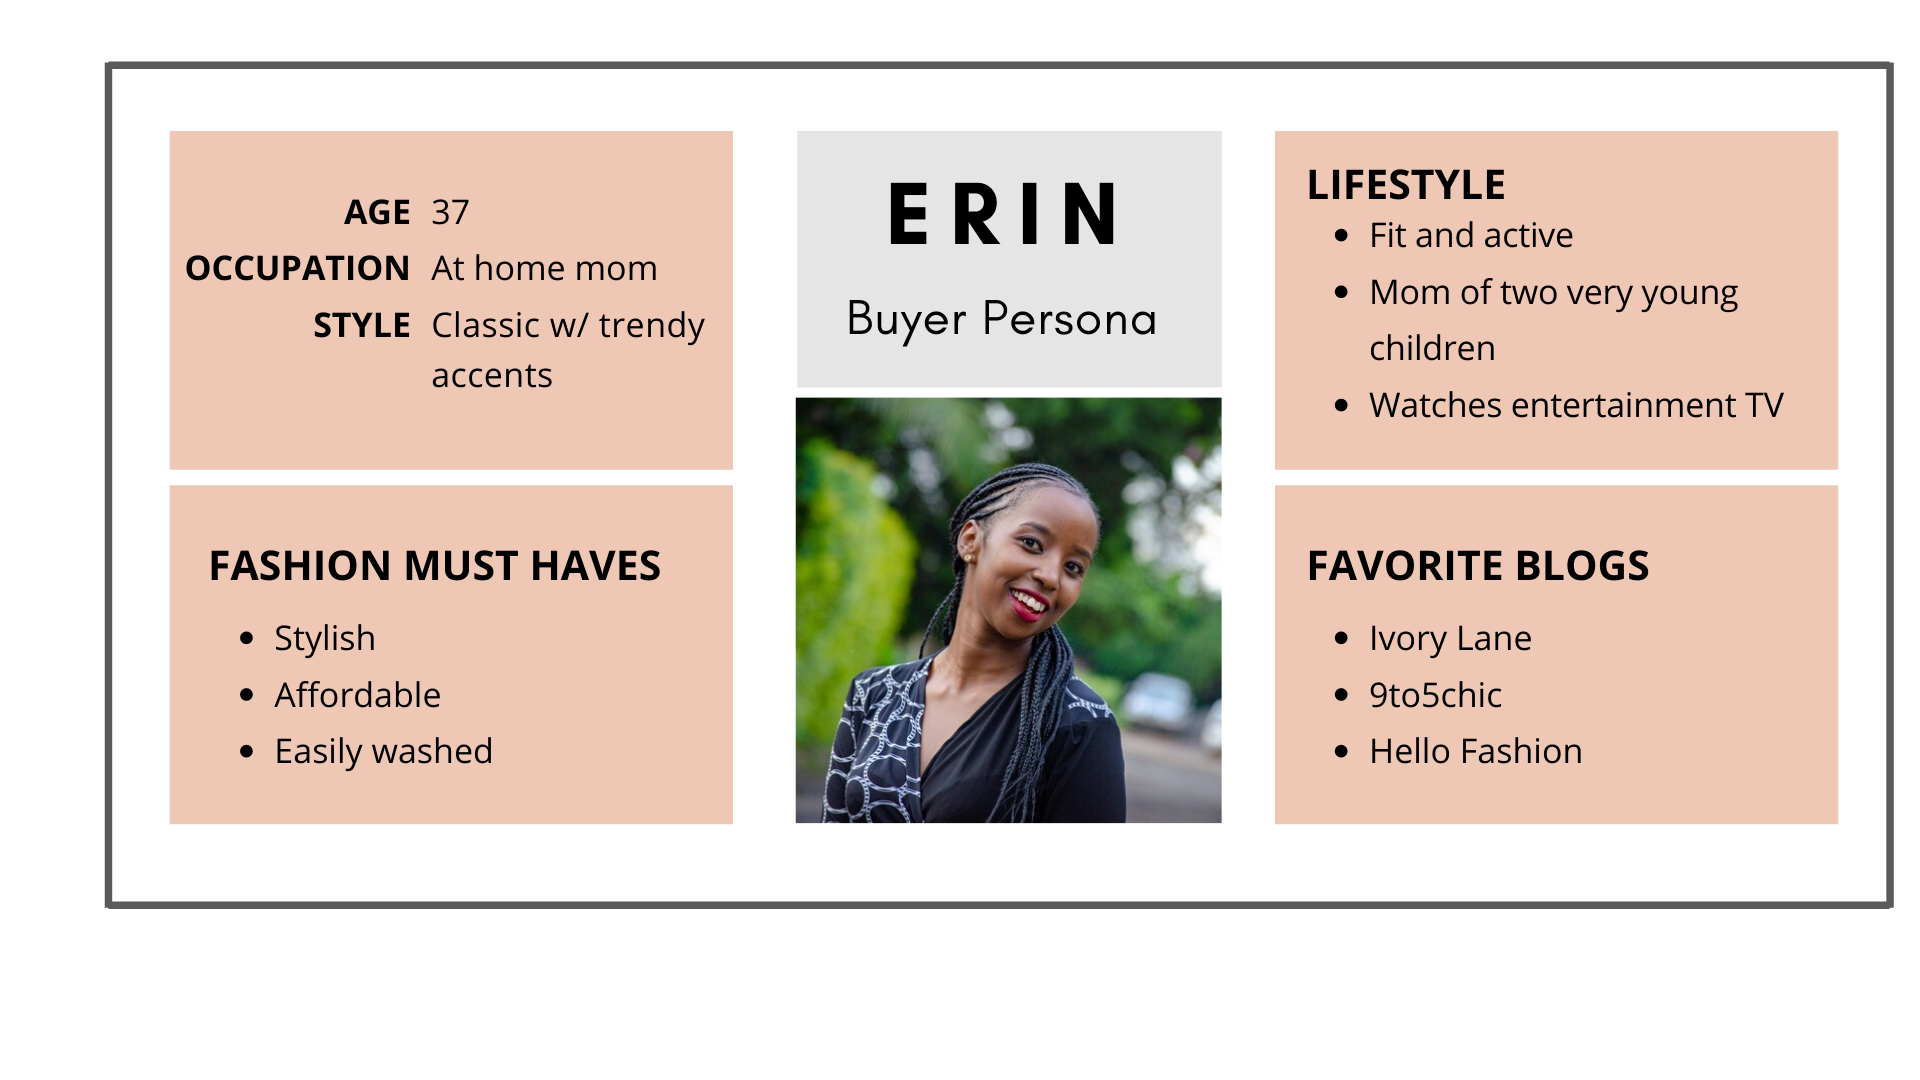
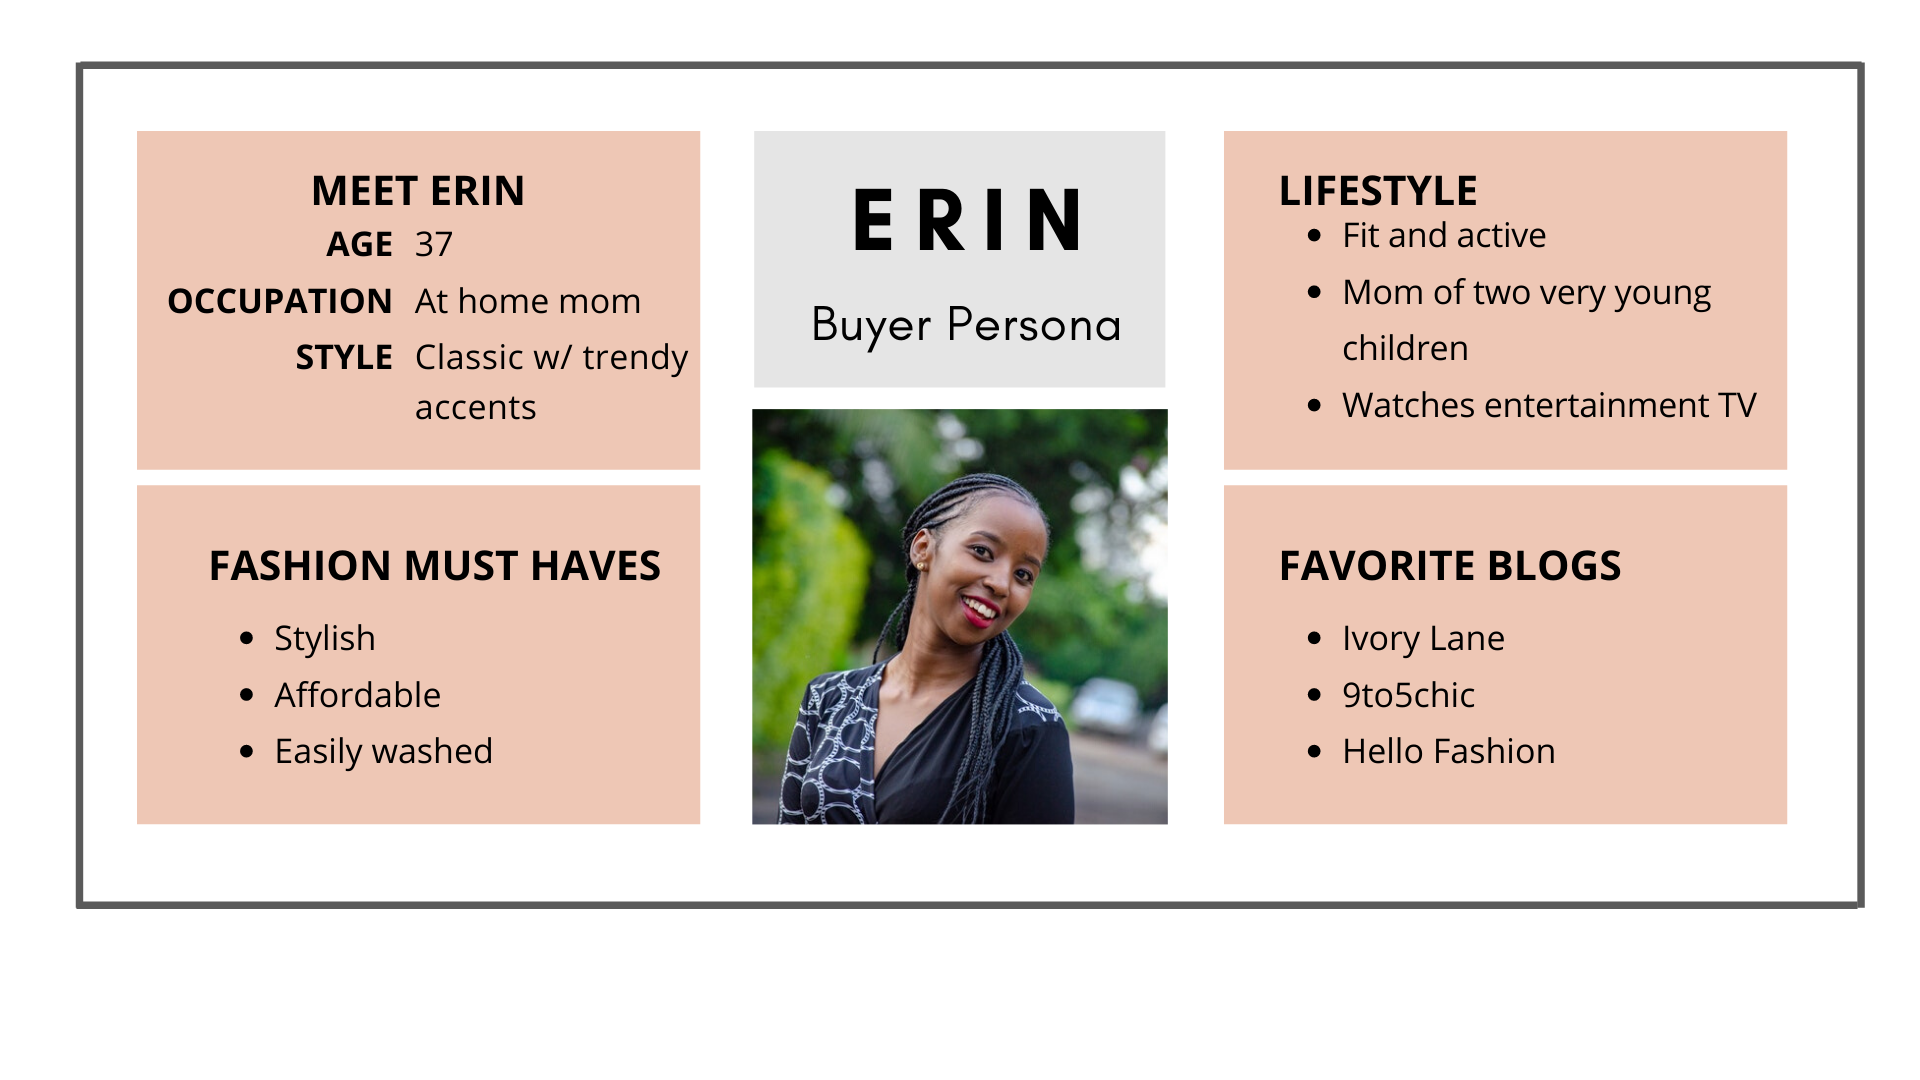
Add files and clean up persona & competitors

Changed region(s): [[0.0312, 0.0611, 1.0, 0.8556]]

diff --git a/authentic-grace.html b/authentic-grace.html
@@ -116,50 +116,29 @@
           <div class="text-center">
             <p>In a fictional interview*, our client described the business:</p>
             <img src="assets/images/auth-grace-prj-images/client-desc.png" alt="Description of the client and business need">
-            <p>Competitors include <a href="https://www.vicicollection.com/">Vici Collection</a>, 
-              <a href="https://roolee.com/"> Roolee</a>, <a href="https://www.shopstevie.com/"> Shop Stevie</a>, 
-              <a href="https://www.ascotandhart.com/"> Ascot and Hart</a>, and 
-              <a href="https://www.jeanjail.com.au/"> Jean Jail</a>.</p>
+            
             <p>* This interview excerpt was provided to us as part of the assignment.</p>
           </div>
           
         </div>
       </section> <!-- END row -->
       <!-- Buyer Persona -->
-      <section class="row justify-content-between align-items-center">
-        <div class="col-lg-6 p-3">
-          <div class="p-3 text-center">
-            <p class="heading text-center">Buyer Persona</p>
-            <p>The typical customer is described in the buyer persona.</p>
-            <blockquote>Erin, 37, a fit and active woman with two children under the age of 6. She loves to add pieces to her wardrobe that
-            won’t break the bank and are easily washed. She has a classic style and likes to mix in a few trendy pieces. At this
-            time, she is a stay-at-home mom, but she still wants to look stylish and not “get stuck in the mom.” She loves
-            entertainment TV and her favorite blogs to follow are Ivory Lane, 9to5chic and Hello Fashion.</blockquote>
-          </div>
-        </div>
-        <div class="col-lg-6 p-3">
-          <div class="p-3 text-center">
-            <div class="text-center">
-              <!-- Insert screenshots of the project OR a video walkthrough below. -->
-              <img id="" src="placeholder.com/500x500" alt="Lorem ipsum" />
-            </div>
-          </div>
+      <section id="persona" class="row justify-content-between align-items-center">
+        <div class="p-3 text-center">
+          <p class="heading">Buyer Persona</p>
+          <p>The typical customer is described in the buyer persona.</p>
+          <img src="assets/images/auth-grace-prj-images/auth-grace-buyer-persona.png" alt="buyer persona">
         </div>
       </section> <!-- END row -->
       <!-- Competitors -->
-      <section class="row justify-content-between align-items-center">
-        <div class="col-lg-6 p-3">
-          <div class="p-3 text-center">
-            <div class="text-center">
-              <!-- Insert screenshots of the project OR a video walkthrough below. -->
-              <img id="" src="placeholder.com/500x500" alt="Lorem ipsum" />
-            </div>
-          </div>
-        </div>
-        <div class="col-lg-6 p-3">
-          <div class="p-3 text-center">
-            <p class="heading text-center">Competitors</p>
-            </div>
+      <section id="competitors" class="row justify-content-between align-items-center">
+        <div class="col-lg-12 p-3 text-center">
+          <p class="heading">Competitors</p>
+          <p>Competitors include <a href="https://www.vicicollection.com/">Vici Collection</a>,
+            <a href="https://roolee.com/"> Roolee</a>, <a href="https://www.shopstevie.com/"> Shop Stevie</a>,
+            <a href="https://www.ascotandhart.com/"> Ascot and Hart</a>, and
+            <a href="https://www.jeanjail.com.au/"> Jean Jail</a>.
+          </p>
         </div>
       </section> <!-- END row -->
 

diff --git a/css/authentic-grace.css b/css/authentic-grace.css
@@ -39,3 +39,12 @@ a:hover {
   font-size: 103%;
   color: var(--font-color-dark);
 }
+
+/* 3. Buyer Persona */
+#persona {
+  margin-bottom: 0;
+}
+
+#competitors {
+  margin-top: 0;
+}

diff --git a/css/project.css b/css/project.css
@@ -23,7 +23,7 @@ body {
 }
 
 section.row {
-  margin: 4rem 0;
+  margin: 2rem 0;
 }
 
 .heading {
